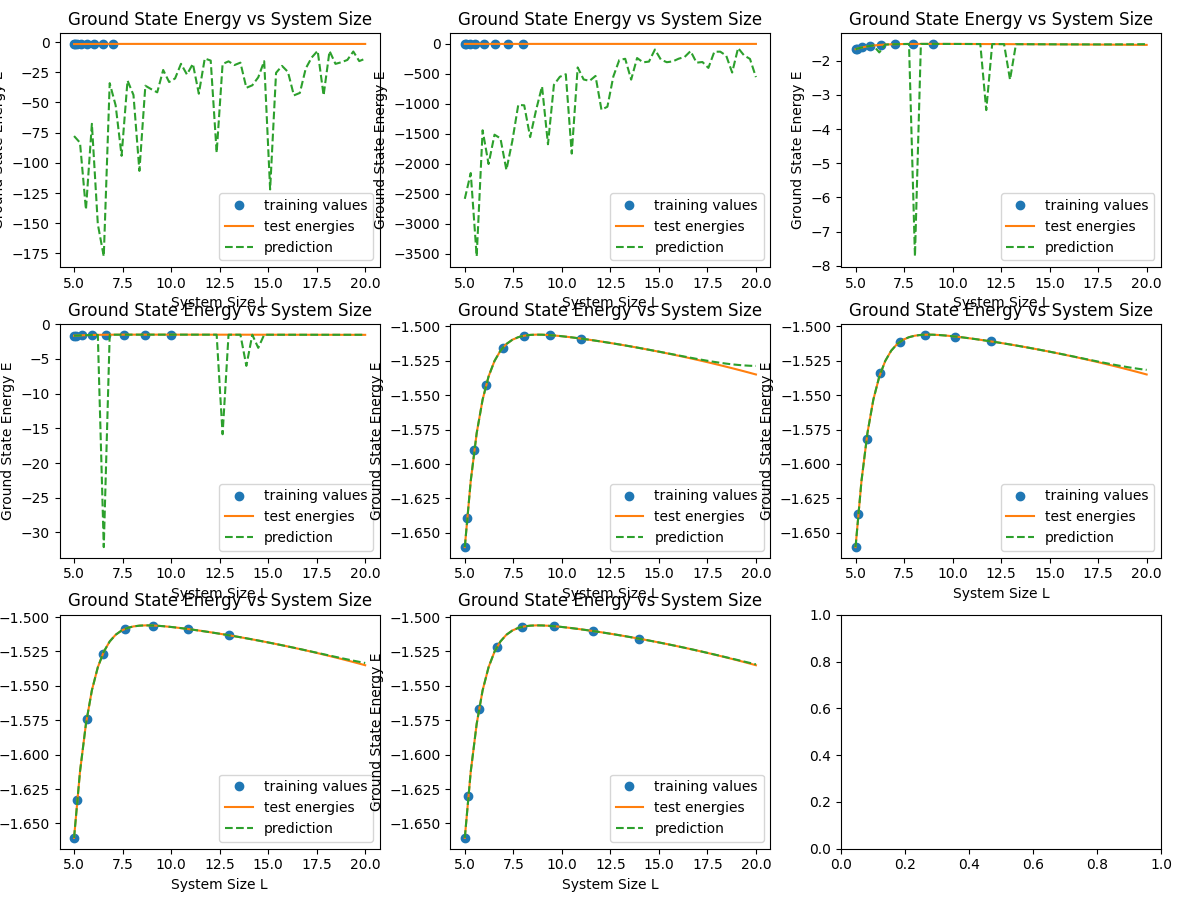
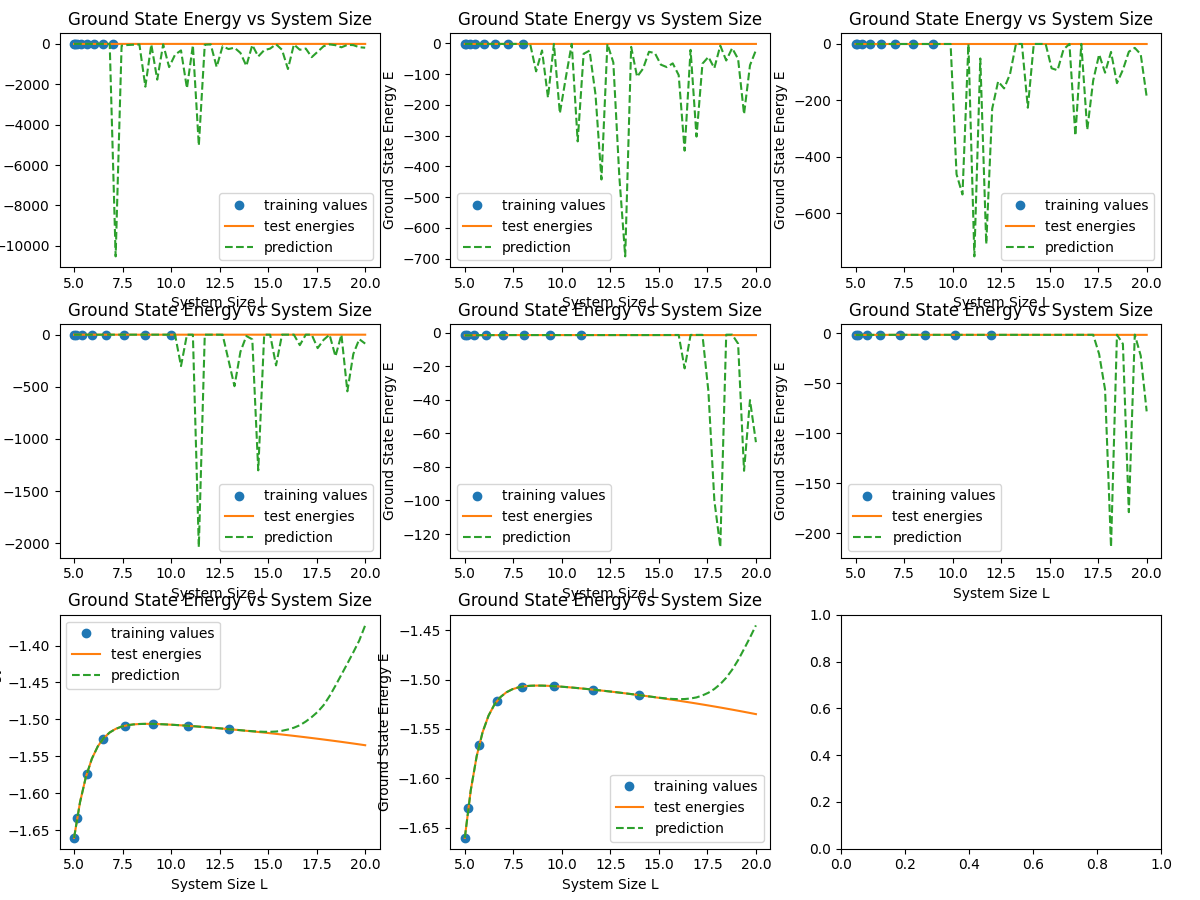
cleaned up ec.py

diff --git a/src/ec.py b/src/ec.py
@@ -19,6 +19,7 @@ class EC:
         self._model = model
 
         self._sample_vectors = None
+        self._sample_Ls = None
         self._S = None
 
     def sample(self, sample_Ls, k_num=1):
@@ -27,11 +28,12 @@ class EC:
         eigvecs = eigvecs.reshape(-1, eigvecs.shape[2])
         self._sample_vectors = eigvecs
         self._S = eigvecs.conj() @ eigvecs.T
+        self._sample_Ls = sample_Ls
         return eigvecs
 
-    def ec_predict(self, target_Ls, k_num=1):
+    def ec_predict(self, target_Ls, k_num=1, dilate=False):
         """predict eigenvalues at target points"""
-        if self._sample_vectors is None or self._S is None:
+        if self._sample_vectors is None or self._S is None or self._sample_Ls is None:
             raise RuntimeError("No sampled vectors found. Run `sample()` first.")
         
         Ls = np.atleast_1d(target_Ls)
@@ -39,100 +41,95 @@ class EC:
         eigenvalues = np.zeros((len(Ls), k_num), dtype=np.float64)
         eigenvectors = np.zeros((len(Ls), k_num, self._model.construct_H(Ls[0]).shape[0]), dtype=np.complex128)
         for i, L in enumerate(Ls):
+            if dilate:
+                reshaped_sample_vectors = self._sample_vectors.reshape(len(self._sample_Ls), -1, self._sample_vectors.shape[1])
+                sample_vectors, S = EC.get_dilated_basis(self._sample_Ls, reshaped_sample_vectors, L)
+            else:
+                sample_vectors, S = self._sample_vectors, self._S
             H = self._model.construct_H(L)
-            H_proj = self._sample_vectors.conj() @ H @ self._sample_vectors.T
-            eigval, eigvec = ss.linalg.eigsh(H_proj, M=self._S, k=k_num, which='SA')
+            H_proj = sample_vectors.conj() @ H @ sample_vectors.T
+            eigval, eigvec = ss.linalg.eigsh(H_proj, M=S, k=k_num, which='SA')
             sort_indices = np.argsort(eigval)
             eigenvalues[i] = eigval[sort_indices][:k_num]
-            eigenvectors[i] = eigvec[:, sort_indices][:, :k_num].T @ self._sample_vectors # eigenvectors have to be dotted with sample vectors since they're coordinate vectors
+            eigenvectors[i] = eigvec[:, sort_indices][:, :k_num].T @ sample_vectors # eigenvectors have to be dotted with sample vectors since they're coordinate vectors
         
         if np.isscalar(target_Ls):
             return eigenvalues[0], eigenvectors[0]
         return eigenvalues, eigenvectors
 
 
-    def solve(self, sample_Ls, target_Ls, k_num_sample=1, k_num_predict=1):
+    def solve(self, sample_Ls, target_Ls, k_num_sample=1, k_num_predict=1, dilate=False):
         """ wrapper for sampling and predicting"""
         temp_vecs = self._sample_vectors
         temp_S = self._S
 
         self.sample(sample_Ls, k_num_sample)
-        eigenvalues, eigenvectors = self.ec_predict(target_Ls, k_num_predict)
+        eigenvalues, eigenvectors = self.ec_predict(target_Ls, k_num_predict, dilate)
 
         self._sample_vectors = temp_vecs
         self._S = temp_S
         return eigenvalues, eigenvectors
+   
+    @staticmethod
+    def get_dilated_basis(sample_Ls, sample_vectors, target_L):
+        """predict eigenvalues at target points"""
+        Ls_length, k_num, N3 = sample_vectors.shape
+        N = round(N3**(1/3))
 
-    def solve_with_dilation(self, sample_Ls, target_Ls, k_num_sample=1, k_num_predict=1):
-        """ wrapper for sampling and predicting"""
-        temp_vecs = self._sample_vectors
-        temp_S = self._S
+        if Ls_length != len(sample_Ls):
+            raise RuntimeError("the first axis of sample_vectors needs to match the length of sample_Ls in `get_dilated_basis(sample_Ls, sample_vectors, target_L)`")
 
-        self.sample(sample_Ls, k_num_sample)
-
-        Ls = np.atleast_1d(target_Ls)
-        eigenvalues = np.zeros((len(Ls), k_num_predict), dtype=np.float64)
-        eigenvectors = np.zeros((len(Ls), k_num_predict, self._model.construct_H(Ls[0]).shape[0]), dtype=np.complex128)
-        for i, L in enumerate(Ls):
-            sample_vs = []
-            sample_vs_temp = self._sample_vectors.reshape(len(sample_Ls), k_num_sample, len(self._sample_vectors[0,:]))
-            for i, L_sample in enumerate(sample_Ls):
-                for k in range(k_num_sample):
-                    sample_vs.append(EC.dilate(L_sample, L, sample_vs_temp[i, k]))
-            sample_vs = np.array(sample_vs)
-            S = sample_vs.conj() @ sample_vs.T
-            H = self._model.construct_H(L)
-            H_proj = sample_vs.conj() @ H @ sample_vs.T
-            eigval, eigvec = ss.linalg.eigsh(H_proj, M=S, k=k_num_predict, which='SA')
-            sort_indices = np.argsort(eigval)
-            eigenvalues[i] = eigval[sort_indices][:k_num_predict]
-            eigenvectors[i] = eigvec[:, sort_indices][:, :k_num_predict].T @ sample_vs # eigenvectors have to be dotted with sample vectors since they're coordinate vectors
+        # create base_coods so they don't need to be created in the loop
+        xs = (np.arange(N) - N / 2).astype(np.float64)
+        xs, ys, zs = np.meshgrid(xs, xs, xs, indexing='ij')
+        base_coods = np.stack([xs, ys, zs], axis=0)
         
-        eigenvalues, eigenvectors = self.ec_predict(target_Ls, k_num_predict)
+        dilated_basis = np.empty_like(sample_vectors)
+        for i, sample_L in enumerate(sample_Ls):
+            dilated_basis[i] = EC.dilate(sample_L, target_L, sample_vectors[i], base_coods=base_coods)
 
-        self._sample_vectors = temp_vecs
-        self._S = temp_S
-        return eigenvalues, eigenvectors
-
+        # reflatten
+        dilated_basis = dilated_basis.reshape(-1, dilated_basis.shape[2])
+        S = dilated_basis.conj() @ dilated_basis.T
+        return dilated_basis, S
+    
     # dilate a state ket psi into a new volume & renormalize
     # given target volume Lprime, old volume L, and wavefunction psi
     @staticmethod
-    def dilate(L, L_target, psi):
-        # grab length of psi and shape into 3D
+    def dilate(L, L_target, psi, base_coods=None):
         if psi.ndim == 1:
-            N = round(psi.size**(1 / 3))
-            psi_3d = psi.reshape((N, N, N))
-        else:
-            raise RuntimeError("psi in dilatation(L, L_target, psi) wasn't flattened")
+            psi = psi[None, :] # make it (1, N^3)
+
+        k_num, N3 = psi.shape
+        N = round(N3**(1/3))
+        psi_3d = psi.reshape(k_num, N, N, N)
 
         # define dilation factor
         s = L / L_target
 
         # physical coordinates are dilated, not the indices, so create physical cood arrays
-        xs = (np.arange(N) - N / 2).astype(np.float64)
-        ys = np.copy(xs)
-        zs = np.copy(xs)
+        if base_coods is None:
+            xs = (np.arange(N) - N / 2).astype(np.float64)
+            xs, ys, zs = np.meshgrid(xs, xs, xs, indexing='ij')
+            base_coods = np.stack([xs, ys, zs], axis=0)
 
         # dilate physical coods by L / L'
-        xs *= s
-        ys *= s
-        zs *= s
+        dilated_coods = s * base_coods
 
-        # remap physical coods to indices (no need because mode='wrap' below)
-        #xs = xs % N
-        #ys = ys % N
-        #zs = zs % N
-
-        xs, ys, zs = np.meshgrid(xs, ys, zs, indexing='ij')
-        dilated_coods = np.stack([xs, ys, zs], axis=0)
+        # map the physical coods from [-N/2,N/2) back into [0, N) indices
+        dilated_coods += N / 2 
 
         # interpolate psi to psi*
-        psi_dilated = s**3/2 * sn.map_coordinates(psi_3d, dilated_coods, mode='wrap', order=3)
+        psi_dilated = np.empty_like(psi)
+        for k in range(k_num):
+            psi_dilated_3d = s**3/2 * sn.map_coordinates(psi_3d[k], dilated_coods, mode='wrap', order=3)
+            psi_dilated[k] = psi_dilated_3d.reshape(-1)
 
-        # reflatten
-        psi_dilated = psi_dilated.flatten()
+        # reflatten and normalize
+        psi_dilated = psi_dilated.reshape(k_num, -1)
+        norms = np.linalg.norm(psi_dilated, axis=1, keepdims=True)
+        psi_dilated /= norms
 
-        # normalize
-        psi_dilated /= np.sqrt(np.vdot(psi_dilated, psi_dilated))
-
+        if k_num == 1:
+            return psi_dilated[0]
         return psi_dilated

diff --git a/src/main.py b/src/main.py
@@ -27,7 +27,7 @@ if __name__=="__main__":
         Ls_train = 5 + np.linspace(0, 1, 8)**2 * (L_final - 5) 
         Es_train = gauss.get_eigenvalues(Ls_train)
         Es_train = gauss.get_eigenvalues(Ls_train)
-        Es_predict, _ = gauss_ec.solve_with_dilation(Ls_train, Ls_actual, k_num_sample=6)
+        Es_predict, _ = gauss_ec.solve(Ls_train, Ls_actual, k_num_sample=6, dilate=True)
 
         ax[i].plot(Ls_train, Es_train, 'o', label='training values')
         ax[i].plot(Ls_actual, Es_actual, '-', label='test energies')
